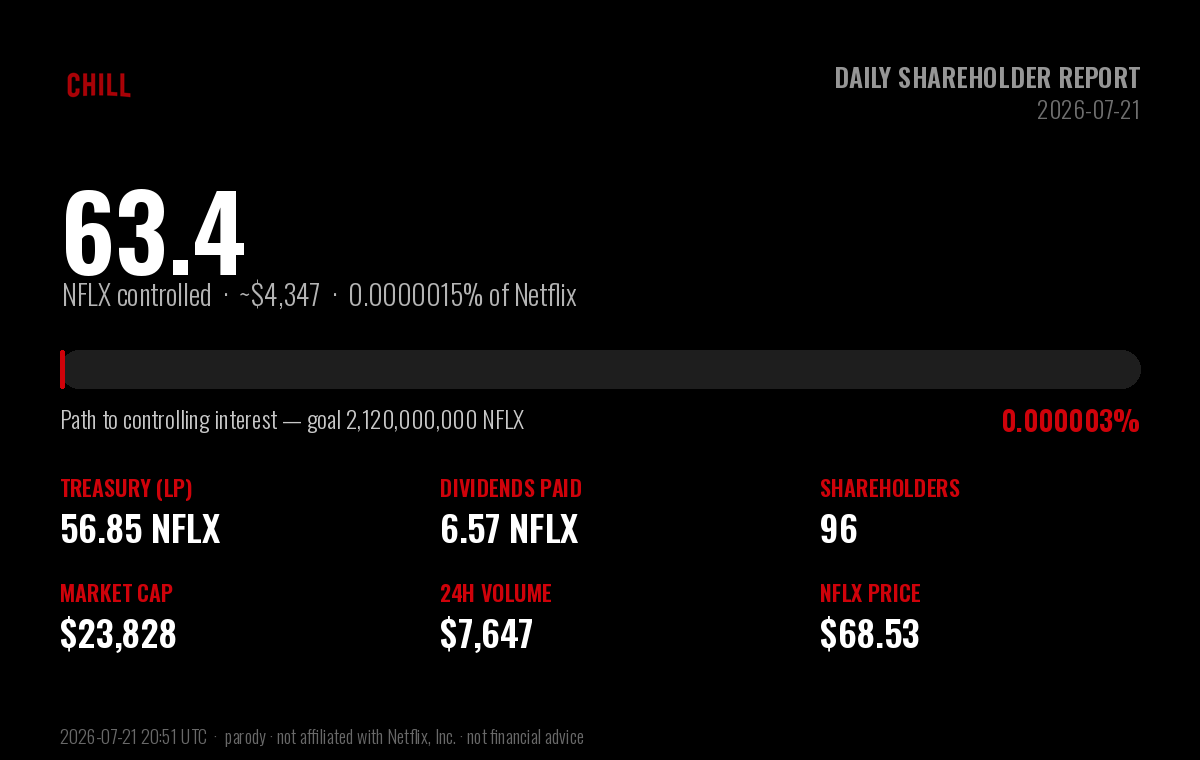
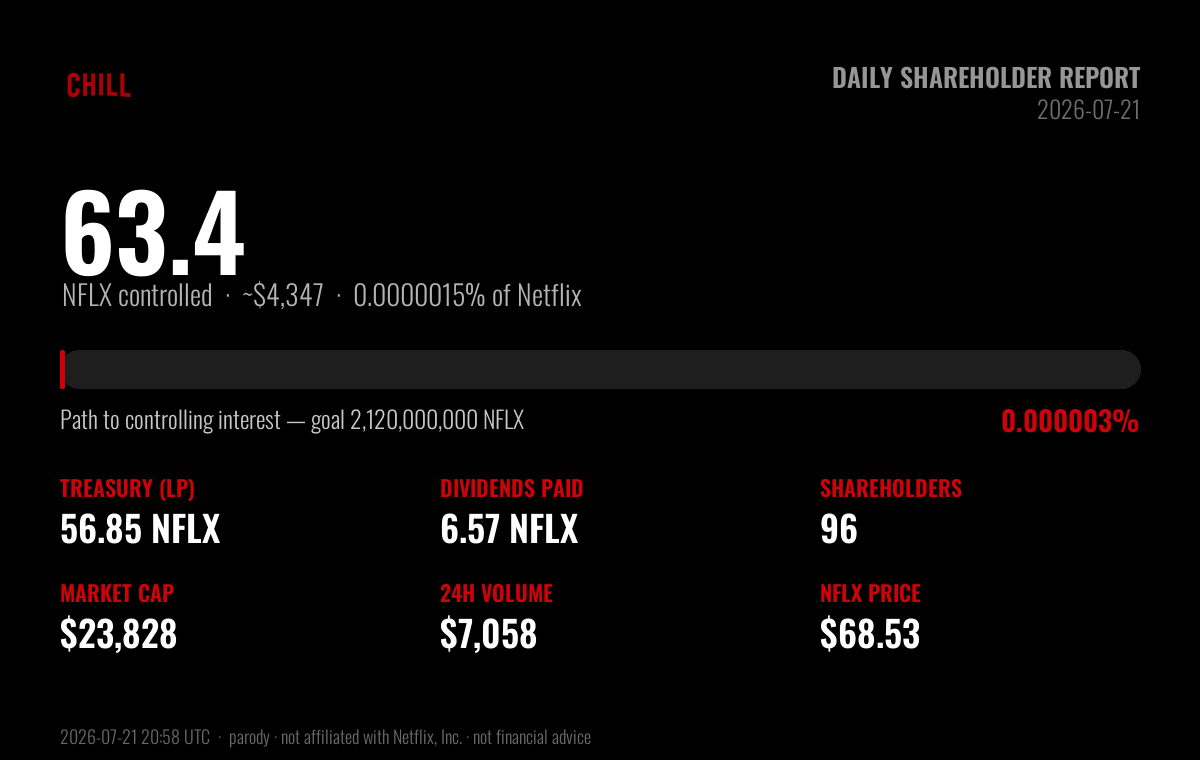
feat: JSON data feed (latest.json) + website embed guide
Adds a machine-readable latest.json for the daily report so websites can fetch
live numbers via jsDelivr (no backend, CORS-enabled), plus EMBED.md with an
image one-liner, JSON usage, a paste-and-go live widget, and a history-chart
pointer.

diff --git a/report-bot/daily_report.py b/report-bot/daily_report.py
@@ -256,6 +256,35 @@ def card(m):
     p = os.path.join(OUT, "shareholder-card.png")
     img.save(p); return p
 
+def write_json(m):
+    CDN = "https://cdn.jsdelivr.net/gh/mavrkofficial/nflx-n-chill@main/daily-holder-report"
+    data = {
+        "updated": m["ts"], "date": m["date"], "block": m["block"],
+        "goal_nflx": GOAL, "nflx_shares_outstanding": SHARES_OUTSTANDING_NFLX,
+        "chill_supply": CHILL_SUPPLY,
+        "nflx_controlled": round(m["controlled"], 4),
+        "nflx_in_lp": round(m["net_lp"], 4),
+        "reflections_nflx": round(m["reflections"], 4),
+        "usd_controlled": round(m["usd_controlled"], 2),
+        "stake_pct_of_netflix": m["stake_pct"],
+        "progress_pct_to_majority": m["progress"],
+        "remaining_nflx": round(m["remaining"], 2),
+        "holders": m["holders"], "lifetime_participants": m["traders"],
+        "market_cap_usd": round(m["mcap"], 2),
+        "chill_price_usd": m["chill_usd"], "nflx_price_usd": round(m["nflx_usd"], 4),
+        "volume_24h_usd": round(m["usd_vol24"], 2), "net_nflx_24h": round(m["net24"], 4),
+        "reflections_24h_nflx": round(m["refl24"], 4),
+        "price_change_24h_pct": (round(m["chg24"], 2) if m["chg24"] is not None else None),
+        "lifetime_volume_nflx": round(m["vol"], 2),
+        "swaps": m["swaps"], "buys": m["buys"], "sells": m["sells"],
+        "days_since_launch": m["days_live"],
+        "card_png": f"{CDN}/shareholder-card.png",
+        "history_csv": f"{CDN}/history.csv",
+        "disclaimer": "Parody token. Not affiliated with or endorsed by Netflix, Inc. Not financial advice.",
+    }
+    with open(os.path.join(OUT, "latest.json"), "w", encoding="utf-8") as f:
+        json.dump(data, f, indent=2)
+
 def append_history(m):
     fp = os.path.join(OUT, "history.csv")
     cols = ["date", "controlled_nflx", "treasury_nflx", "dividends_nflx", "stake_pct",
@@ -278,6 +307,7 @@ if __name__ == "__main__":
     os.makedirs(OUT, exist_ok=True)
     m = compute()
     open(os.path.join(OUT, "README.md"), "w", encoding="utf-8").write(markdown(m))
+    write_json(m)
     append_history(m)
     try:
         card(m); print("card ok")

diff --git a/daily-holder-report/EMBED.md b/daily-holder-report/EMBED.md
@@ -1,0 +1,127 @@
+# Embedding the $CHILL Shareholder Report on a website
+
+Everything here updates automatically once a day (a GitHub Action regenerates it
+and commits to `main`). Your site pulls straight from the repo via the jsDelivr
+CDN — **no backend, no API key, CORS-enabled.** Pick whichever level of effort
+you want.
+
+> Note on freshness: jsDelivr caches `@main` for up to ~12h, which is fine for a
+> once-a-day report. If you ever need it instant, swap `@main` for a commit hash,
+> or hit the GitHub raw URL instead (`https://raw.githubusercontent.com/mavrkofficial/nflx-n-chill/main/daily-holder-report/...`).
+
+---
+
+## Option A — just show the card (1 line, easiest)
+
+The pre-rendered image, always the latest:
+
+```html
+<img src="https://cdn.jsdelivr.net/gh/mavrkofficial/nflx-n-chill@main/daily-holder-report/shareholder-card.png"
+     alt="$CHILL Daily Shareholder Report" style="max-width:100%;border-radius:12px" />
+```
+
+---
+
+## Option B — live JSON feed (build your own styled widget)
+
+Machine-readable data at:
+
+```
+https://cdn.jsdelivr.net/gh/mavrkofficial/nflx-n-chill@main/daily-holder-report/latest.json
+```
+
+Shape (numbers, not strings):
+
+```json
+{
+  "updated": "2026-07-21 20:50 UTC",
+  "nflx_controlled": 63.43,
+  "nflx_in_lp": 56.85,
+  "reflections_nflx": 6.57,
+  "usd_controlled": 4347.12,
+  "goal_nflx": 2120000000,
+  "progress_pct_to_majority": 0.0000030,
+  "stake_pct_of_netflix": 0.0000015,
+  "remaining_nflx": 2119999936.57,
+  "holders": 96,
+  "market_cap_usd": 23828,
+  "chill_price_usd": 0.00002383,
+  "nflx_price_usd": 68.53,
+  "volume_24h_usd": 8447,
+  "price_change_24h_pct": 1.4,
+  "card_png": "https://cdn.jsdelivr.net/gh/.../shareholder-card.png",
+  "disclaimer": "Parody token. Not affiliated with or endorsed by Netflix, Inc. Not financial advice."
+}
+```
+
+Fetch and render however you like:
+
+```js
+const data = await fetch(
+  "https://cdn.jsdelivr.net/gh/mavrkofficial/nflx-n-chill@main/daily-holder-report/latest.json"
+).then(r => r.json());
+
+document.querySelector("#nflx-controlled").textContent =
+  data.nflx_controlled.toLocaleString() + " NFLX";
+document.querySelector("#progress-bar").style.width =
+  Math.max(data.progress_pct_to_majority, 0.4) + "%";
+```
+
+---
+
+## Option C — drop-in live widget (self-contained, on-brand)
+
+Paste this anywhere in the page. It fetches the JSON and renders a branded
+"takeover tracker." Restyle freely.
+
+```html
+<div id="chill-tracker" style="max-width:640px;margin:auto;background:#000;color:#fff;
+     border:1px solid #1e1e1e;border-radius:16px;padding:26px 28px;
+     font-family:'Bebas Neue',Oswald,Arial,sans-serif">
+  <div style="display:flex;justify-content:space-between;align-items:baseline">
+    <span style="color:#CF020A;font-weight:700;letter-spacing:.04em">$CHILL</span>
+    <span style="color:#888;font-size:13px" id="ct-updated"></span>
+  </div>
+  <div style="font-size:52px;font-weight:700;margin:8px 0 2px" id="ct-controlled">—</div>
+  <div style="color:#aaa;font-size:15px" id="ct-sub">NFLX controlled</div>
+  <div style="height:14px;background:#1c1c1c;border-radius:8px;margin:18px 0 8px;overflow:hidden">
+    <div id="ct-bar" style="height:100%;width:0.4%;background:#CF020A;border-radius:8px"></div>
+  </div>
+  <div style="display:flex;justify-content:space-between;color:#bbb;font-size:13px">
+    <span>Goal: 2,120,000,000 NFLX (majority of Netflix)</span>
+    <span id="ct-pct" style="color:#CF020A"></span>
+  </div>
+  <div style="color:#666;font-size:11px;margin-top:14px">
+    Parody token — not affiliated with or endorsed by Netflix, Inc. Not financial advice.
+  </div>
+</div>
+<script>
+fetch("https://cdn.jsdelivr.net/gh/mavrkofficial/nflx-n-chill@main/daily-holder-report/latest.json")
+  .then(r => r.json()).then(d => {
+    ct_controlled.textContent = d.nflx_controlled.toLocaleString(undefined,{maximumFractionDigits:1}) + " NFLX";
+    ct_sub.textContent = "NFLX controlled · ~$" + d.usd_controlled.toLocaleString() +
+                         " · " + d.stake_pct_of_netflix.toFixed(7) + "% of Netflix";
+    ct_bar.style.width = Math.max(d.progress_pct_to_majority, 0.4) + "%";
+    ct_pct.textContent = d.progress_pct_to_majority.toFixed(6) + "%";
+    ct_updated.textContent = d.updated;
+  });
+</script>
+```
+
+---
+
+## Option D — history chart
+
+`history.csv` gets one row appended per day (columns: `date, controlled_nflx,
+treasury_nflx, dividends_nflx, stake_pct, progress_pct, holders, market_cap_usd,
+nflx_price_usd, chill_price_usd, vol24_usd`). Feed it to Chart.js / Recharts /
+Datawrapper for a "progress over time" graph:
+
+```
+https://cdn.jsdelivr.net/gh/mavrkofficial/nflx-n-chill@main/daily-holder-report/history.csv
+```
+
+---
+
+**tl;dr for your dev:** Option A is a one-line `<img>`. Option C is a paste-and-go
+live widget. Everything refreshes daily on its own.

diff --git a/daily-holder-report/README.md b/daily-holder-report/README.md
@@ -30,10 +30,10 @@
 
 | Metric | Value |
 |---|---|
-| Trading volume | 111.59 NFLX (~$7,647) |
-| Net NFLX accumulated | -13.91 NFLX |
-| Dividends generated | 1.1159 NFLX |
-| Transactions | 98 (64 buys / 34 sells) |
+| Trading volume | 102.99 NFLX (~$7,058) |
+| Net NFLX accumulated | -5.32 NFLX |
+| Dividends generated | 1.0299 NFLX |
+| Transactions | 97 (64 buys / 33 sells) |
 | $CHILL price change | -1.2% |
 
 ## Shareholder & market data
@@ -59,7 +59,7 @@
 
 ---
 
-*Report generated 2026-07-21 20:51 UTC · block 15,864,120 · data via the Sentry-Robinhood
+*Report generated 2026-07-21 20:58 UTC · block 15,868,579 · data via the Sentry-Robinhood
 subgraph and Robinhood Chain explorer.*
 
 **Disclaimer:** $CHILL is an independent, community-driven **parody** token. It is